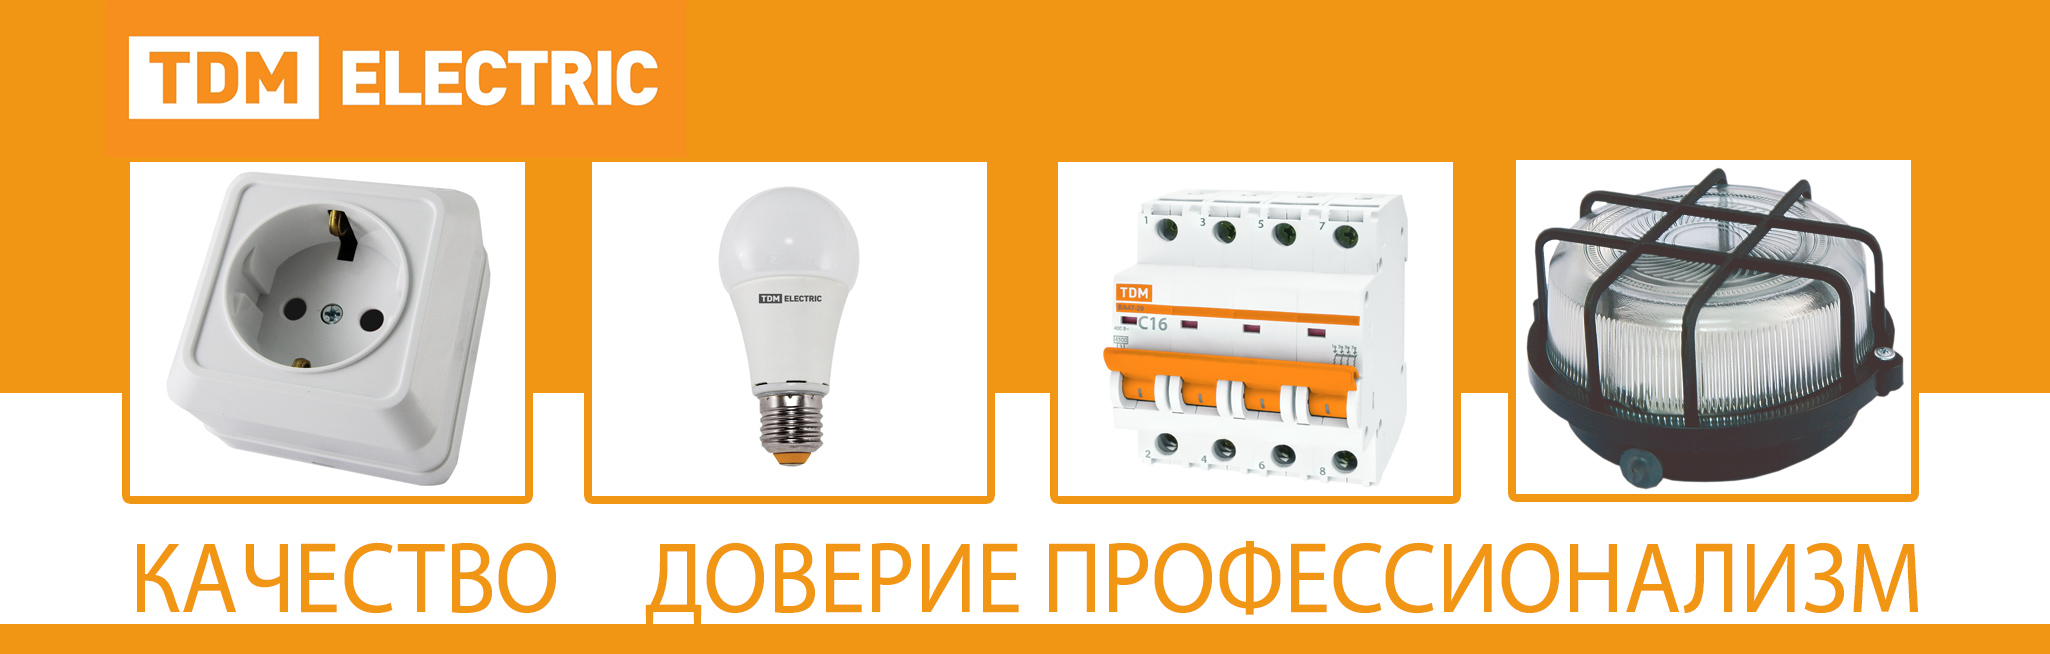
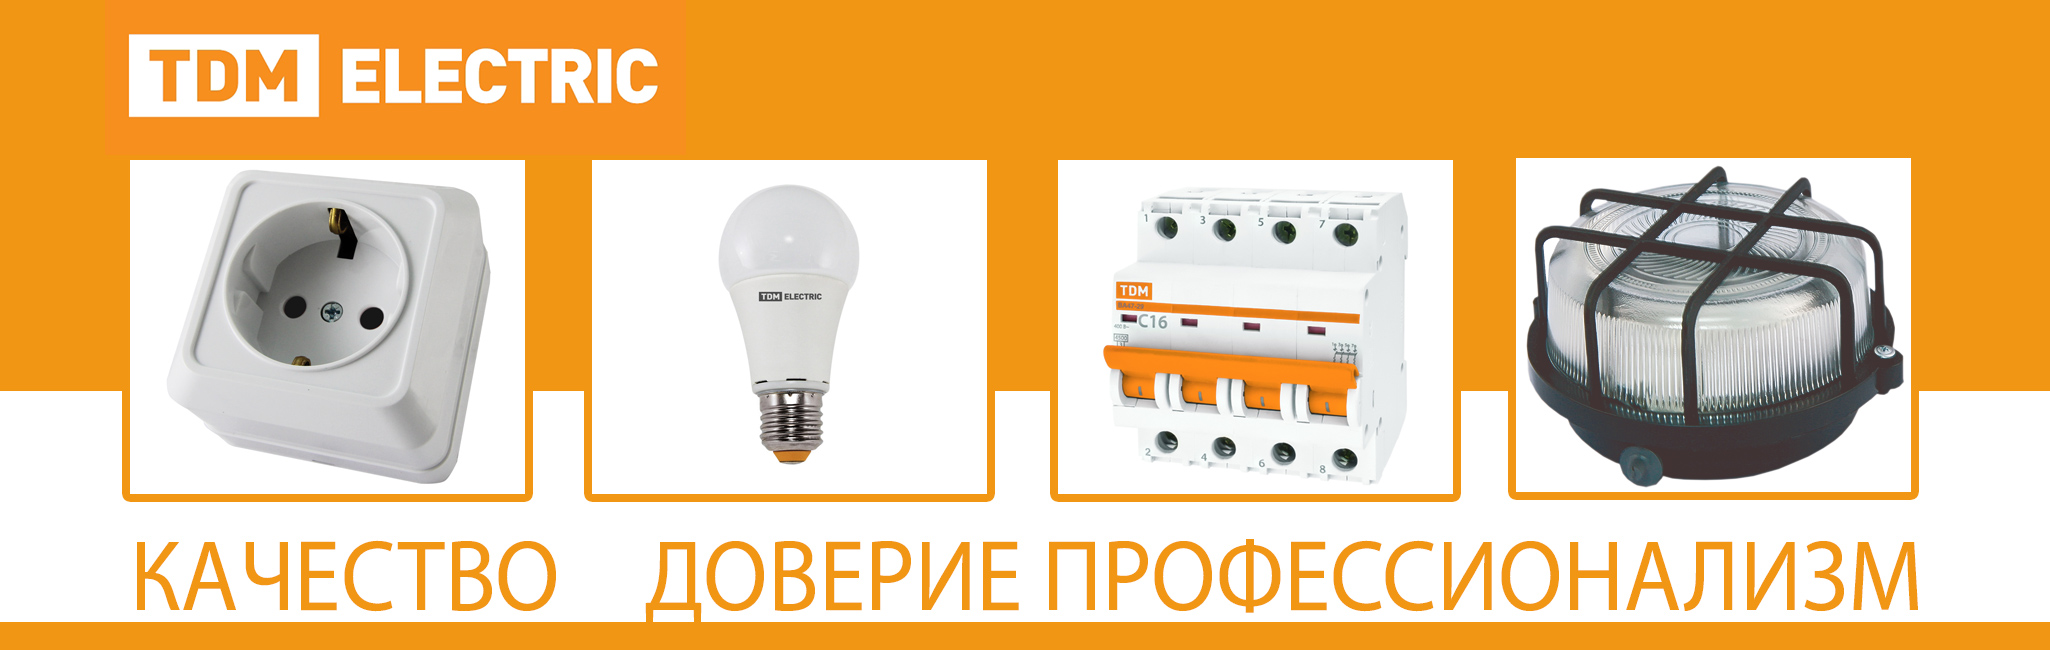
стили, информация для слайдов, поправлен косяк с неверным сообщением об отсутствующем товаре

diff --git a/catalog/view/theme/bootstrap3/stylesheet/stylesheet.css b/catalog/view/theme/bootstrap3/stylesheet/stylesheet.css
@@ -109,7 +109,7 @@ div.subcategory {
     display: inline-block;
     line-height: 34px;
     font-weight: 700;
-    color: #ef4135;
+    color: #f16c14;
     text-align: center;
 }
 .old_price{
@@ -122,7 +122,7 @@ div.subcategory {
 }
 
 .text-block {
-    background: #ef4135;
+    background: #f16c14;
     font-size: 17px;
     line-height: 29px;
     text-align: center;
@@ -221,7 +221,7 @@ div.subcategory {
 
 .category-container:after {
     content: '';
-    background: #ef4135;
+    background: #f16c14;
     opacity: 0.8;
     position: absolute;
     right: -150%;
@@ -252,7 +252,7 @@ div.subcategory {
 
 
 /*--------------------------------------- HEADER ------------------------------------------*/
-header#header{
+#header{
     padding: 0;
     border: none;
     position: relative;
@@ -264,14 +264,8 @@ header#header{
 #header .header-wrap{
     padding: 25px 0;
 }
-#header .header-wrap:before{
-    position: absolute;
-    content: '';
-    top: 0;
-    bottom: 0;
-    left: -200%;
-    right: -200%;
-    z-index: -1;
+#header {
+
     background: url(../image/header-bgr.png) repeat-x bottom center #191919;
 }
 #header .logo-wrap{
@@ -389,7 +383,7 @@ header#header{
 /*----- TOP MENU -------------*/
 #menu{
     border: none;
-   background: #ef4135;
+   background: #f16c14;
 }
 .navbar-inverse{
     background: none;
@@ -578,7 +572,7 @@ header#header{
     font: 800 24px/20px Lato;
     float: none;
     text-transform: none;
-    color: #fcc605;
+    color: #f16c14;
 }
 
 #footer li a{

diff --git a/catalog/language/russian/product/product.php b/catalog/language/russian/product/product.php
@@ -9,7 +9,8 @@ $_['text_reward']       = 'Бонусные баллы:';
 $_['text_points']       = 'Цена в бонусных баллах:';
 $_['text_stock']        = 'Наличие:';
 $_['text_instock']      = 'Есть в наличии';
-$_['text_price']        = 'Цена:'; 
+$_['text_outstock']     = 'Нет в наличии';
+$_['text_price']        = 'Цена:';
 $_['text_tax']          = 'Без НДС:';
 $_['text_discount']     = '%s или более %s';
 $_['text_option']       = 'Доступные варианты';

diff --git a/catalog/controller/product/product.php b/catalog/controller/product/product.php
@@ -288,7 +288,7 @@ class ControllerProductProduct extends Controller {
 			$this->data['points'] = $product_info['points'];
 			
 			if ($product_info['quantity'] <= 0) {
-				$this->data['stock'] = $product_info['stock_status'];
+                $this->data['stock'] = $this->language->get('text_outstock');
 			} elseif ($this->config->get('config_stock_display')) {
 				$this->data['stock'] = $product_info['quantity'];
 			} else {
